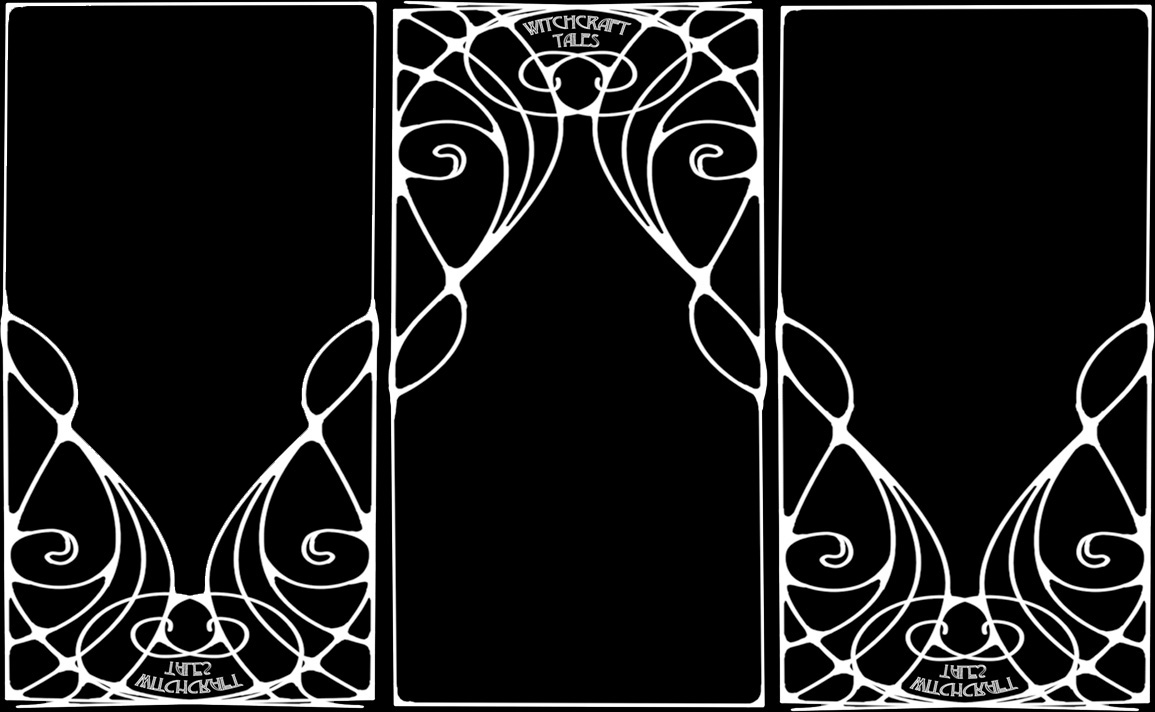
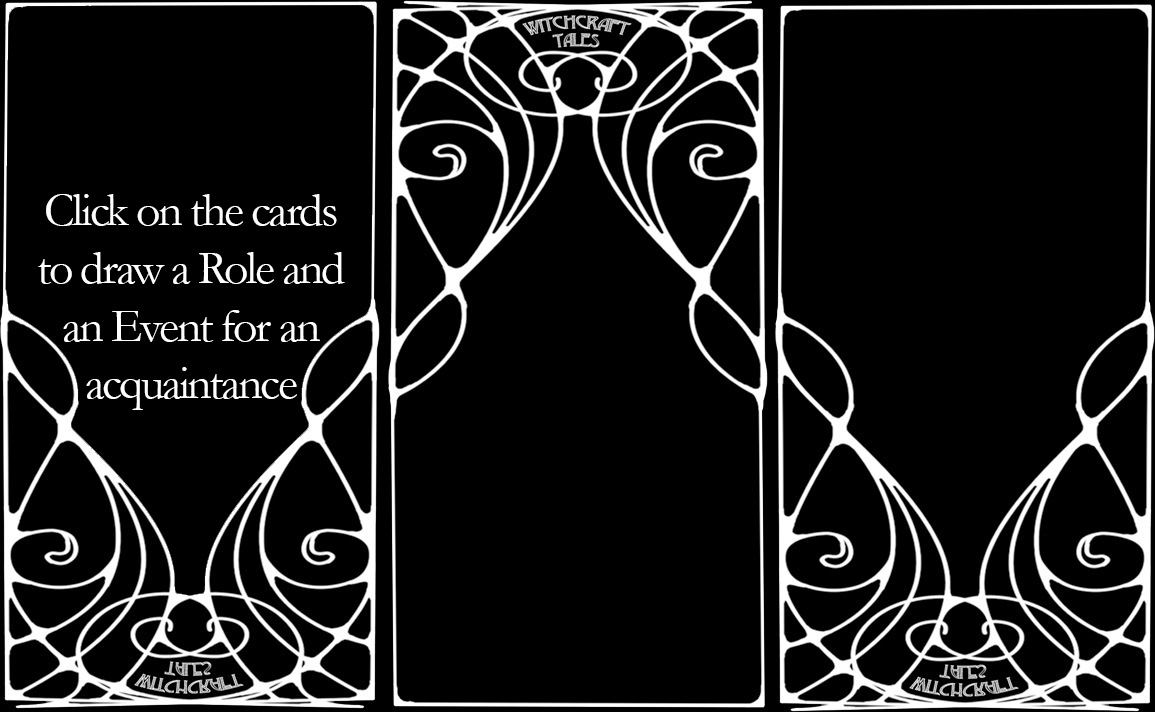
Add files via upload

Changed region(s): [[0.0312, 0.2781, 0.3117, 0.4017], [0.0623, 0.4326, 0.2805, 0.4944], [0.0623, 0.5253, 0.2494, 0.5871]]

diff --git a/acquaintance/index.html b/acquaintance/index.html
@@ -11,14 +11,12 @@
 </head>
 <body>
         <div class="container align-items-center pt-5 pb-3">
-            <div class="row pt-3">
+            <div class="row">
                 <div class="col-4">
-                    <div class="card text-center align-items-center">
-                    Click on the cards to draw a Role and an Event for an acquaintance
                     <button><a href="https://drive.google.com/file/d/1Ddd-7JWEH6KL6FjhTo_bAFxK8J0OZeyW/view?usp=share_link" target="_blank" rel="noopener noreferrer">
                     Rules</a></button>
-                </div></div>
-                    <div class="col-4">
+                </div>
+                    <div class="col-4 pt-3">
                         <div class="card controls align-items-center text-center">
                             <img id="roles" class="img-fluid" src="roles/card.png" alt="card image">
                             Role
